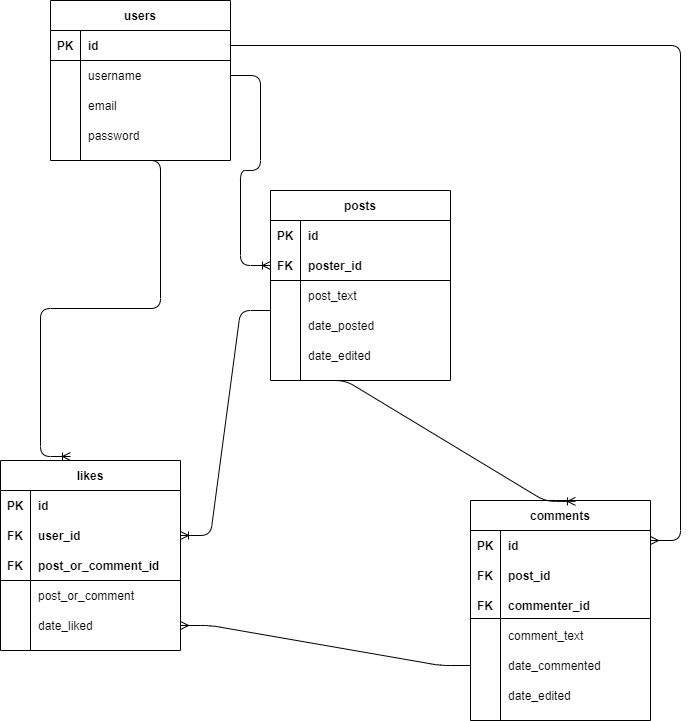
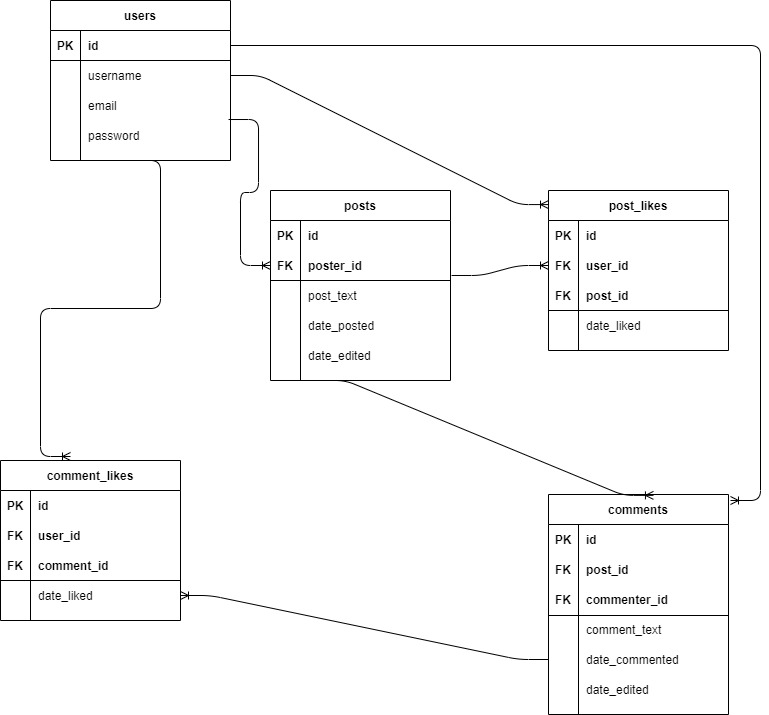
ERD and script needed updates to break likes table up. Completed Comments Dao and its menu options.

diff --git a/Social Media Application/src/application/Menu.java b/Social Media Application/src/application/Menu.java
@@ -13,12 +13,14 @@ public class Menu {
 	private CommentsDao commentsDao;
 	private LikesDao likesDao;
 	private Scanner scanner = new Scanner(System.in);
-	private Scanner scanner2 = new Scanner(System.in);
 	
 	// These are options that the user can select from the menu
 	// Add new options here
 	private List<String> options = Arrays.asList(
-			"Display All Posts and Comments by User ID"
+			"Display All Posts and Comments by User ID",
+			"Create a new comment",
+			"Update Comment Text by ID",
+			"Delete Comment by ID"
 	);
 	
 	// Create a data access object to allow getting data from the db via a layer
@@ -37,20 +39,49 @@ public class Menu {
 			printMenu();
 			selection = scanner.nextLine();
 			
-			// These are variables are initialized the by scanner objects and passed to the dao object
+			// These are variables are initialized the by scanner objects and passed to dao objects
 			int userId;
+			int postId;
+			int commentId;
+			String commentText;
 			
 			// Determine which operation
-			switch (selection) {
-				// Display all comments and post by the passed in user from the db
-				case "1":		
-					System.out.println("\nEnter in the ID of the User: ");
-					userId = scanner2.nextInt();
-					System.out.println();
-					displayCommentsPostsByUser(userId);
-					System.out.println("\n");
-					break;								
+			try {
+					switch (selection) {
+						// Display all comments and post by the passed in user from the db
+						case "1":		
+							System.out.println("\nEnter in the ID of the User: ");
+							userId = Integer.parseInt(scanner.nextLine());
+							System.out.println();
+							displayCommentsPostsByUser(userId);
+							System.out.println("\n");
+							break;
+						// Menu option creates a new comment on a post
+						case "2":
+							System.out.println("\nEnter the Post ID, Commenter ID, and Comment Text: ");
+							postId = Integer.parseInt(scanner.nextLine());
+							userId = Integer.parseInt(scanner.nextLine());
+							commentText = scanner.nextLine();
+							createNewComment(postId, userId, commentText);
+							break;
+						// Menu option updates a comment's text based off what ID and string the user passes in
+						case "3":
+							System.out.println("\nEnter the Comment ID, and Comment Text: ");
+							commentId = Integer.parseInt(scanner.nextLine());
+							commentText = scanner.nextLine();
+							updateCommentByID(commentId, commentText);
+							break;
+						// Menu option deletes a comment by
+						case "4":
+							System.out.println("\nEnter the Comment ID to delete a comment (will also delete from Likes table due to dependency): ");
+							commentId = Integer.parseInt(scanner.nextLine());
+							deleteCommentByID(commentId);
+							break;
+				}
 			}
+				catch (SQLException e) {
+					e.printStackTrace();
+				}		
 			
 			// Line for neatness
 			System.out.println();
@@ -70,7 +101,21 @@ public class Menu {
 		// If there are zero rows, tell the user nothing is found
 		if (comments.size() == 0)
 			System.out.println("Results of Posts and Comments by User ID query \"" + userId + "\" not found.");
-	}	
+	}
+	
+	private void createNewComment(int postId, int commenterId, String commentText) throws SQLException
+	{
+		commentsDao.createNewComment(postId, commenterId, commentText);
+	}
+	
+	// Updates a single comment text by id 
+	private void updateCommentByID(int commentId, String commentText) throws SQLException {
+		commentsDao.updateComment(commentId, commentText);	
+	}
+	
+	private void deleteCommentByID(int commentId) throws SQLException {
+		commentsDao.deleteCommentById(commentId);
+	}
 	
 	// Loops through list of options that output to the user's screen
 	private void printMenu() {

diff --git a/Social Media Application/src/dao/CommentsDao.java b/Social Media Application/src/dao/CommentsDao.java
@@ -25,6 +25,13 @@ public class CommentsDao {
 			"WHERE USER_POSTS.ID = ? OR USER_COMMENTS.ID = ? " + 
 			"ORDER BY P.ID";
 	
+	// Create a new comment or update a comment
+	private final String CREATE_COMMENTS_QUERY = "INSERT INTO COMMENTS (POST_ID, COMMENTER_ID, COMMENT_TEXT, DATE_COMMENTED, DATE_EDITED) VALUES (?, ?, ?, NOW(), NOW())";
+	private final String UPDATE_COMMENTS_QUERY_BY_ID = "UPDATE COMMENTS SET COMMENT_TEXT = ?, DATE_EDITED = NOW() WHERE ID = ?";
+	
+	// Delete dependencies and delete from comments
+	private final String DELETE_COMMENT_QUERY_BY_ID = "DELETE FROM COMMENTS WHERE ID = ?";
+	
 	// Get connection for Social Media database and create Comment data access object
 	public CommentsDao() {
 		connection = DBConnection.getConnection();
@@ -47,5 +54,32 @@ public class CommentsDao {
 		
 		// Return comments, posts, usernames list
 		return commentsPostsByUser;
+	}
+	
+	// Methods creates a new comment in the database
+	public void createNewComment(int postId, int commenterId, String commentText) throws SQLException {	
+		PreparedStatement ps = connection.prepareStatement(CREATE_COMMENTS_QUERY);
+		ps.setInt(1, postId);
+		ps.setInt(2, commenterId);
+		ps.setString(3, commentText);
+		ps.executeUpdate();
+	}
+	
+	// Methods updates a comment in the database by id
+	public void updateComment(int commentId, String commentText) throws SQLException {
+		PreparedStatement ps = connection.prepareStatement(UPDATE_COMMENTS_QUERY_BY_ID);
+		ps.setString(1, commentText);
+		ps.setInt(2, commentId);
+		ps.executeUpdate();
+	}
+	
+	// Method deletes a single comment by id
+	public void deleteCommentById(int id) throws SQLException {
+		// Prepared statement for deletes comments and likes tables dependency
+		PreparedStatement ps = connection.prepareStatement(DELETE_COMMENT_QUERY_BY_ID);
+		
+		// Set parameter and execute query
+		ps.setInt(1, id);
+		
 	}
 }
